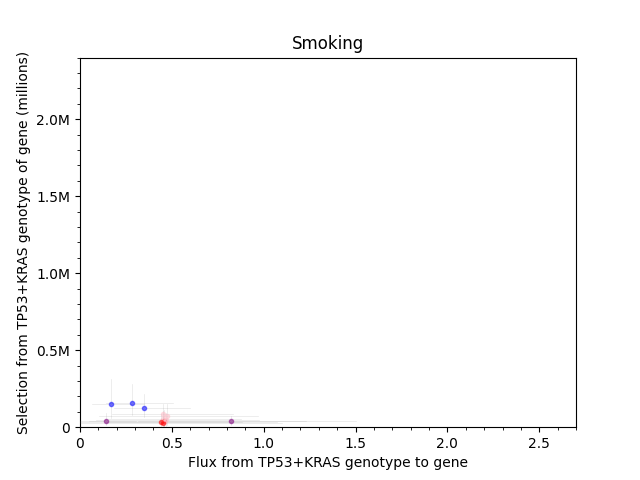
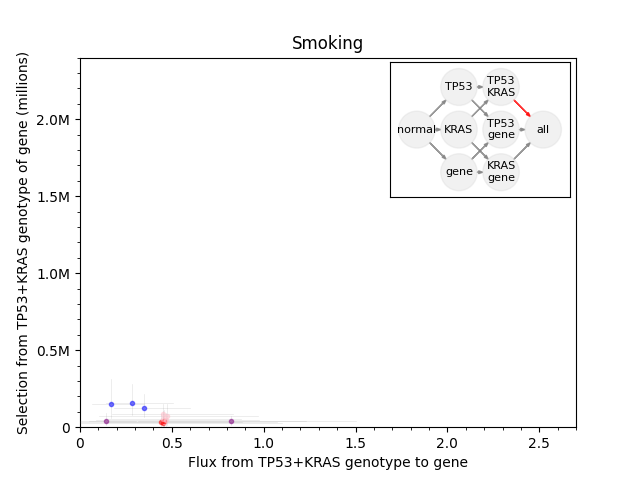
Add diagram inside epistasis scatter plots
To represent what step in the epistasis model we are plotting.

Changed region(s): [[0.625, 0.1562, 0.875, 0.375]]

diff --git a/code/figures.py b/code/figures.py
@@ -441,6 +441,72 @@ def plot_lambdas_gammas(key=None,
     ax = prettify_axis(ax, 'y',
                        axis_args_gammas)
 
+    if epi_key != 'no_epi':
+        ## Add axes with epi model and emphasis
+
+        def isemphasis(origin, destiny):
+            if epi_key == "from_normal":
+                test = (origin == (0, 0, 0) and
+                        destiny == (0, 0, 1))
+
+            elif epi_key == "from_110":
+                test = (origin == (1, 1, 0) and
+                        destiny == (1, 1, 1))
+
+            return test
+
+        axins = fig.add_axes([0.61, 0.59, 0.28, 0.28])
+        h_dist = 3
+        v_dist = 3
+        circle_radius = 1.3
+        nodes_locs = {(0, 0, 0):[0, 0],
+                      (1, 0, 0):[h_dist, v_dist],
+                      (0, 1, 0):[h_dist, 0],
+                      (0, 0, 1):[h_dist, -v_dist],
+                      (1, 1, 0):[2*h_dist, v_dist],
+                      (1, 0, 1):[2*h_dist, 0],
+                      (0, 1, 1):[2*h_dist, -v_dist],
+                      (1, 1, 1):[3*h_dist, 0]}
+        nodes_names = {(0, 0, 0):"normal",
+                       (1, 0, 0):"TP53",
+                       (0, 1, 0):"KRAS",
+                       (0, 0, 1):"gene",
+                       (1, 1, 0):"TP53\nKRAS",
+                       (1, 0, 1):"TP53\ngene",
+                       (0, 1, 1):"KRAS\ngene",
+                       (1, 1, 1):"all"}
+
+        for node_origin, loc_origin in nodes_locs.items():
+            ## Draw arrows
+            for node_destin, loc_destin in nodes_locs.items():
+                if (np.sum(np.array(node_destin) - np.array(node_origin)) == 1
+                    and np.all(np.array(node_destin) >= np.array(node_origin))):
+                    dxy = np.array(loc_destin) - np.array(loc_origin)
+                    dxy_norm = dxy/np.sqrt(np.sum(dxy**2))
+                    origin = np.array(loc_origin) + dxy_norm*circle_radius
+                    d_destin = dxy - 2*dxy_norm*circle_radius
+                    emphasis = isemphasis(node_origin, node_destin)
+                    axins.arrow(*list(origin),
+                                *list(d_destin),
+                                width=0.002 if emphasis else 0.001,
+                                head_length=0.3,
+                                head_width=0.2,
+                                length_includes_head=True,
+                                alpha=0.8,
+                                color="Red" if emphasis else "Gray")
+
+            ## Draw circles
+            axins.add_patch(plt.Circle(loc_origin, circle_radius,
+                                       color="LightGray", alpha=0.3))
+            ## Add names
+            axins.text(loc_origin[0], loc_origin[1],
+                       nodes_names[node_origin], va='center', ha='center',
+                       fontsize=8)
+
+        axins.axes.xaxis.set_visible(False)
+        axins.axes.yaxis.set_visible(False)
+
+
     if plot_name is None:
         plot_name = f"fluxes_and_selections_{key}_{epi_key}.png"
     fig.savefig(os.path.join(location_figures,
@@ -476,7 +542,7 @@ def plot_all():
     ## ** Pan data
 
     key, epi_key = ('pan_data', 'no_epi')
-    print(f"Plotting {key}, {epi_key}")
+    print(f"Plotting {key}, {epi_key}...")
 
     axis_args_lambdas= {
         'lim':1.7,
@@ -504,12 +570,15 @@ def plot_all():
         bottom_genes={'RYR2'},
         plot_name = f"fluxes_and_selections_{key}_{epi_key}_with_KRAS_TP53.png")
 
+    print("...done.")
+    print("")
+
 
     ## * No epistasis include TP53 and KRAS
     ## ** Smoking
 
     key, epi_key = ('smoking', 'no_epi')
-    print(f"Plotting {key}, {epi_key}")
+    print(f"Plotting {key}, {epi_key}...")
 
     scatter_plots[(key, epi_key)] = plot_lambdas_gammas(
         key,
@@ -524,12 +593,15 @@ def plot_all():
         title="Smoking",
         plot_name = f"fluxes_and_selections_{key}_{epi_key}_with_KRAS_TP53.png")
 
+    print("...done.")
+    print("")
+
 
     ## * No epistasis include TP53 and KRAS but not EGFR
     ## ** Non-smoking
 
     key, epi_key = ('nonsmoking', 'no_epi')
-    print(f"Plotting {key}, {epi_key}")
+    print(f"Plotting {key}, {epi_key}...")
 
     scatter_plots[(key, epi_key)] = plot_lambdas_gammas(
         key,
@@ -541,6 +613,9 @@ def plot_all():
         bottom_genes={'RYR2', 'KRAS', 'BRAF'},
         title="Non-smoking",
         plot_name = f"fluxes_and_selections_{key}_{epi_key}_with_KRAS_TP53_no_EGRF.png")
+
+    print("...done.")
+    print("")
 
 
     ## * No epistasis include TP53 and KRAS with EGFR
@@ -573,12 +648,15 @@ def plot_all():
         title="Non-smoking",
         plot_name = f"fluxes_and_selections_{key}_{epi_key}_with_KRAS_TP53.png")
 
+    print("...done.")
+    print("")
+
 
     ## * No epistasis zoom in
     ## ** Pan data
 
     key, epi_key = ('pan_data', 'no_epi')
-    print(f"Plotting {key}, {epi_key}")
+    print(f"Plotting {key}, {epi_key}...")
 
     axis_args_lambdas= {
         'lim':0.44,
@@ -605,12 +683,15 @@ def plot_all():
         axis_args_gammas=axis_args_gammas,
         left_top_genes={'KEAP1', 'SPATA3'})
 
+    print("...done.")
+    print("")
+
 
     ## * No epistasis zoom in
     ## ** Smoking
 
     key, epi_key = ('smoking', 'no_epi')
-    print(f"Plotting {key}, {epi_key}")
+    print(f"Plotting {key}, {epi_key}...")
 
     scatter_plots[(key, epi_key)] = plot_lambdas_gammas(
         key,
@@ -624,12 +705,15 @@ def plot_all():
         title="Smoking",
         bottom_genes={'STK11'})
 
+    print("...done.")
+    print("")
+
 
     ## * No epistasis zoom in
     ## ** Non-smoking
 
     key, epi_key = ('nonsmoking', 'no_epi')
-    print(f"Plotting {key}, {epi_key}")
+    print(f"Plotting {key}, {epi_key}...")
 
     scatter_plots[(key, epi_key)] = plot_lambdas_gammas(
         key,
@@ -641,12 +725,15 @@ def plot_all():
         axis_args_gammas=axis_args_gammas,
         title="Non-smoking")
 
+    print("...done.")
+    print("")
+
 
     ## * Epistasis from normal
     ## ** Pan data
 
     key, epi_key = ('pan_data', 'from_normal')
-    print(f"Plotting {key}, {epi_key}")
+    print(f"Plotting {key}, {epi_key}...")
 
     axis_args_lambdas= {
         'lim':0.6,
@@ -675,12 +762,15 @@ def plot_all():
         left_top_genes={'KEAP1'},
         left_bottom_genes={'LRP1B'})
 
+    print("...done.")
+    print("")
+
 
     ## * Epistasis from normal
     ## ** Smoking
 
     key, epi_key = ('smoking', 'from_normal')
-    print(f"Plotting {key}, {epi_key}")
+    print(f"Plotting {key}, {epi_key}...")
 
     scatter_plots[(key, epi_key)] = plot_lambdas_gammas(
         key,
@@ -695,12 +785,15 @@ def plot_all():
         left_bottom_genes={'RYR2'},
         title="Smoking",)
 
+    print("...done.")
+    print("")
+
 
     ## * Epistasis from normal
     ## ** Non-smoking
 
     key, epi_key = ('nonsmoking', 'from_normal')
-    print(f"Plotting {key}, {epi_key}")
+    print(f"Plotting {key}, {epi_key}...")
 
     scatter_plots[(key, epi_key)] = plot_lambdas_gammas(
         key,
@@ -715,12 +808,15 @@ def plot_all():
         left_bottom_genes=None,
         title="Non-smoking")
 
+    print("...done.")
+    print("")
+
 
     ## * Epistasis from TP53+KRAS not annotated
     ## ** Pan data
 
     key, epi_key = ('pan_data', 'from_110')
-    print(f"Plotting {key}, {epi_key}")
+    print(f"Plotting {key}, {epi_key}...")
 
     axis_args_lambdas= {
         'lim':2.7,
@@ -749,12 +845,15 @@ def plot_all():
         left_bottom_genes={'LRP1B'},
         plot_name = f"fluxes_and_selections_{key}_{epi_key}_not_annotated.png")
 
+    print("...done.")
+    print("")
+
 
     ## * Epistasis from TP53+KRAS not annotated
     ## ** Smoking
 
     key, epi_key = ('smoking', 'from_110')
-    print(f"Plotting {key}, {epi_key}")
+    print(f"Plotting {key}, {epi_key}...")
 
     scatter_plots[(key, epi_key)] = plot_lambdas_gammas(
         key,
@@ -769,12 +868,15 @@ def plot_all():
         title="Smoking",
         plot_name = f"fluxes_and_selections_{key}_{epi_key}_not_annotated.png")
 
+    print("...done.")
+    print("")
+
 
     ## * Epistasis from TP53+KRAS not annotated
     ## ** Non-smoking
 
     key, epi_key = ('nonsmoking', 'from_110')
-    print(f"Plotting {key}, {epi_key}")
+    print(f"Plotting {key}, {epi_key}...")
 
     scatter_plots[(key, epi_key)] = plot_lambdas_gammas(
         key,
@@ -788,6 +890,9 @@ def plot_all():
         left_bottom_genes=None,
         title="Non-smoking",
         plot_name = f"fluxes_and_selections_{key}_{epi_key}_not_annotated.png")
+
+    print("...done.")
+    print("")
 
 
     ## * Epistasis from TP53+KRAS
@@ -809,7 +914,7 @@ def plot_all():
         'scale':10**3}
 
     key, epi_key = ('pan_data', 'from_110')
-    print(f"Plotting {key}, {epi_key}")
+    print(f"Plotting {key}, {epi_key}...")
 
     scatter_plots[(key, epi_key)] = plot_lambdas_gammas(
         key,
@@ -823,11 +928,15 @@ def plot_all():
         left_top_genes={'RYR1', 'USH2A'},
         left_bottom_genes={'PAPPA2', 'CSMD1'})
 
+    print("...done.")
+    print("")
+
+
     ## * Epistasis from TP53+KRAS
     ## ** Smoking
 
     key, epi_key = ('smoking', 'from_110')
-    print(f"Plotting {key}, {epi_key}")
+    print(f"Plotting {key}, {epi_key}...")
 
     scatter_plots[(key, epi_key)] = plot_lambdas_gammas(
         key,
@@ -842,12 +951,15 @@ def plot_all():
         left_bottom_genes={'USH2A', 'RYR2'},
         title="Smoking")
 
+    print("...done.")
+    print("")
+
 
     ## * Epistasis from TP53+KRAS
     ## ** Non-smoking
 
     key, epi_key = ('nonsmoking', 'from_110')
-    print(f"Plotting {key}, {epi_key}")
+    print(f"Plotting {key}, {epi_key}...")
 
     scatter_plots[(key, epi_key)] = plot_lambdas_gammas(
         key,
@@ -861,6 +973,10 @@ def plot_all():
         left_top_genes=None,
         left_bottom_genes={'RYR2', 'LRP1B'},
         title="Non-smoking")
+
+    print("...done.")
+    print("")
+
 
     return scatter_plots
 
